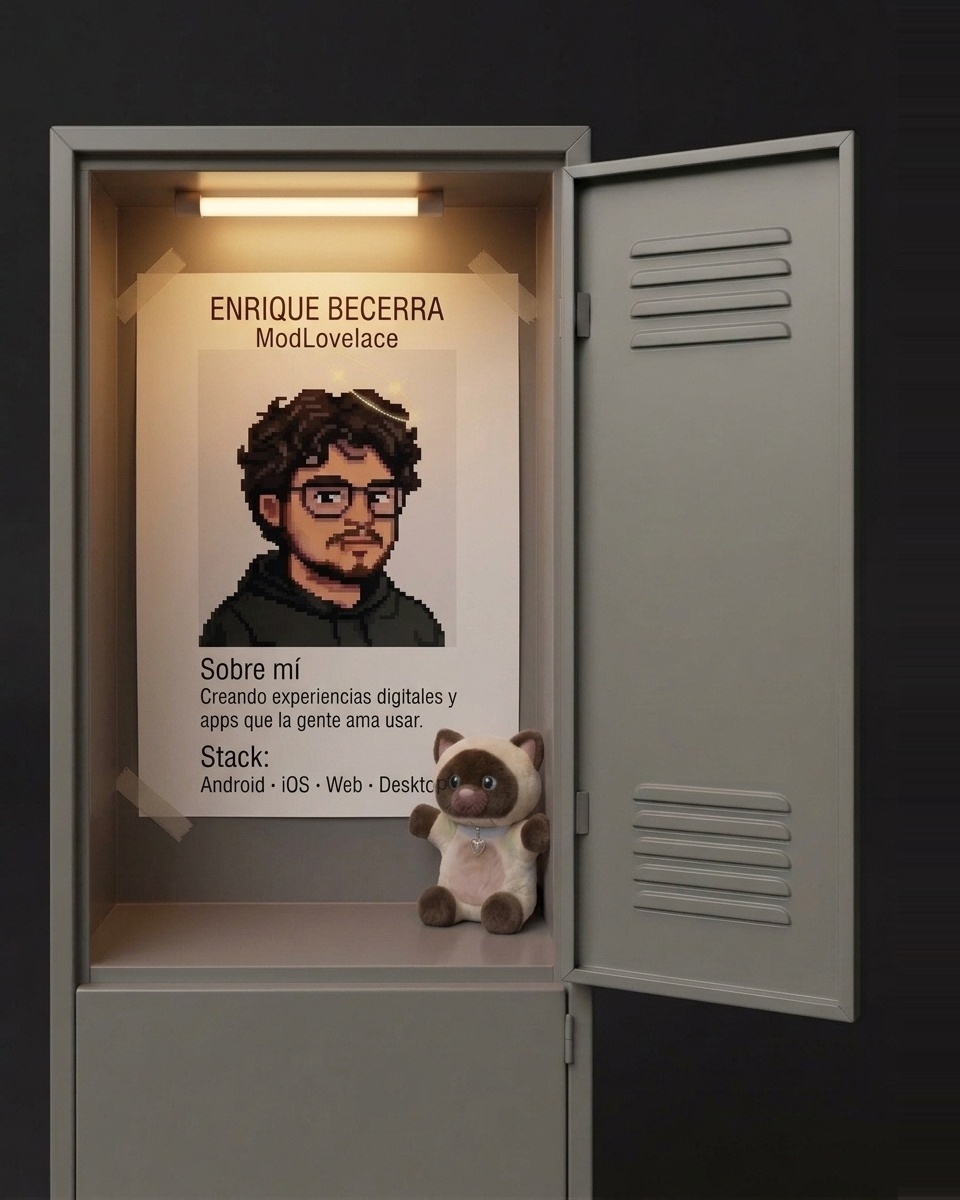
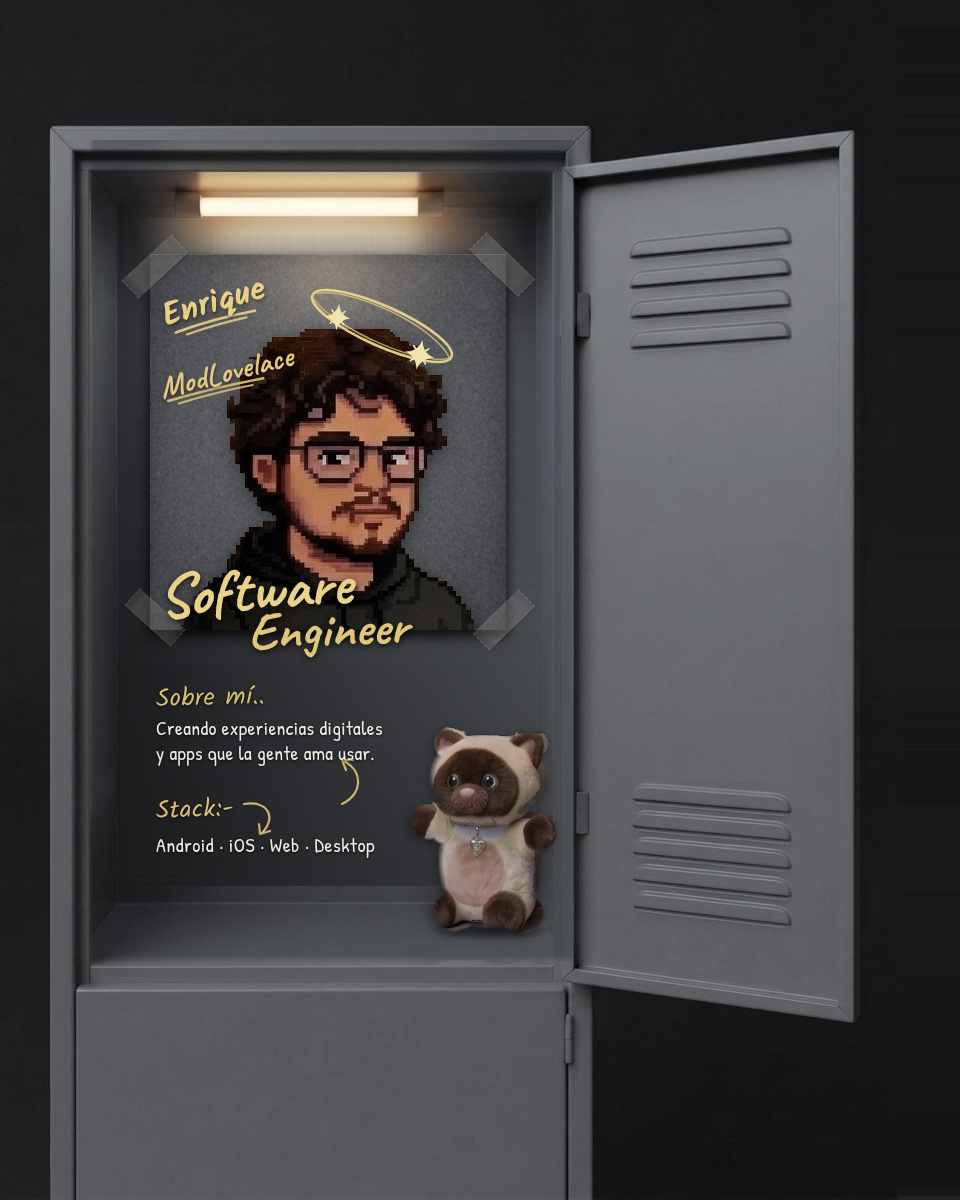
design(locker): overhaul interior poster and gunmetal-slate tones inspired by studio reference

Changed region(s): [[0.0938, 0.0925, 0.625, 0.8325]]

diff --git a/src/components/sections/locker-hero.tsx b/src/components/sections/locker-hero.tsx
@@ -235,10 +235,10 @@ export function LockerHero() {
                     lightOn ? "opacity-100 scale-100" : "opacity-0 scale-95"
                   }`}
                 >
-                  {/* Luz difusa cálida */}
-                  <div className="absolute inset-0 bg-gradient-to-b from-amber-200/35 via-amber-300/10 to-transparent" />
-                  {/* Foco de luz directo sobre la lámpara */}
-                  <div className="absolute top-2 inset-x-12 h-16 bg-gradient-to-b from-white/40 via-amber-100/25 to-transparent blur-md rounded-full" />
+                  {/* Luz difusa de estudio focalizada en el interior del gabinete */}
+                  <div className="absolute inset-x-[12%] top-0 h-44 bg-gradient-to-b from-amber-100/18 via-amber-100/5 to-transparent" />
+                  {/* Foco de luz directo sobre el tubo fluorescente */}
+                  <div className="absolute top-3 left-[18%] right-[44%] h-12 bg-gradient-to-b from-white/35 via-amber-100/20 to-transparent blur-md rounded-full" />
                 </div>
 
                 {/* ACTO 3: Salen las pegatinas sobre la puerta limpia (nace vacía y se agregan con relieve 3D elástico) */}
